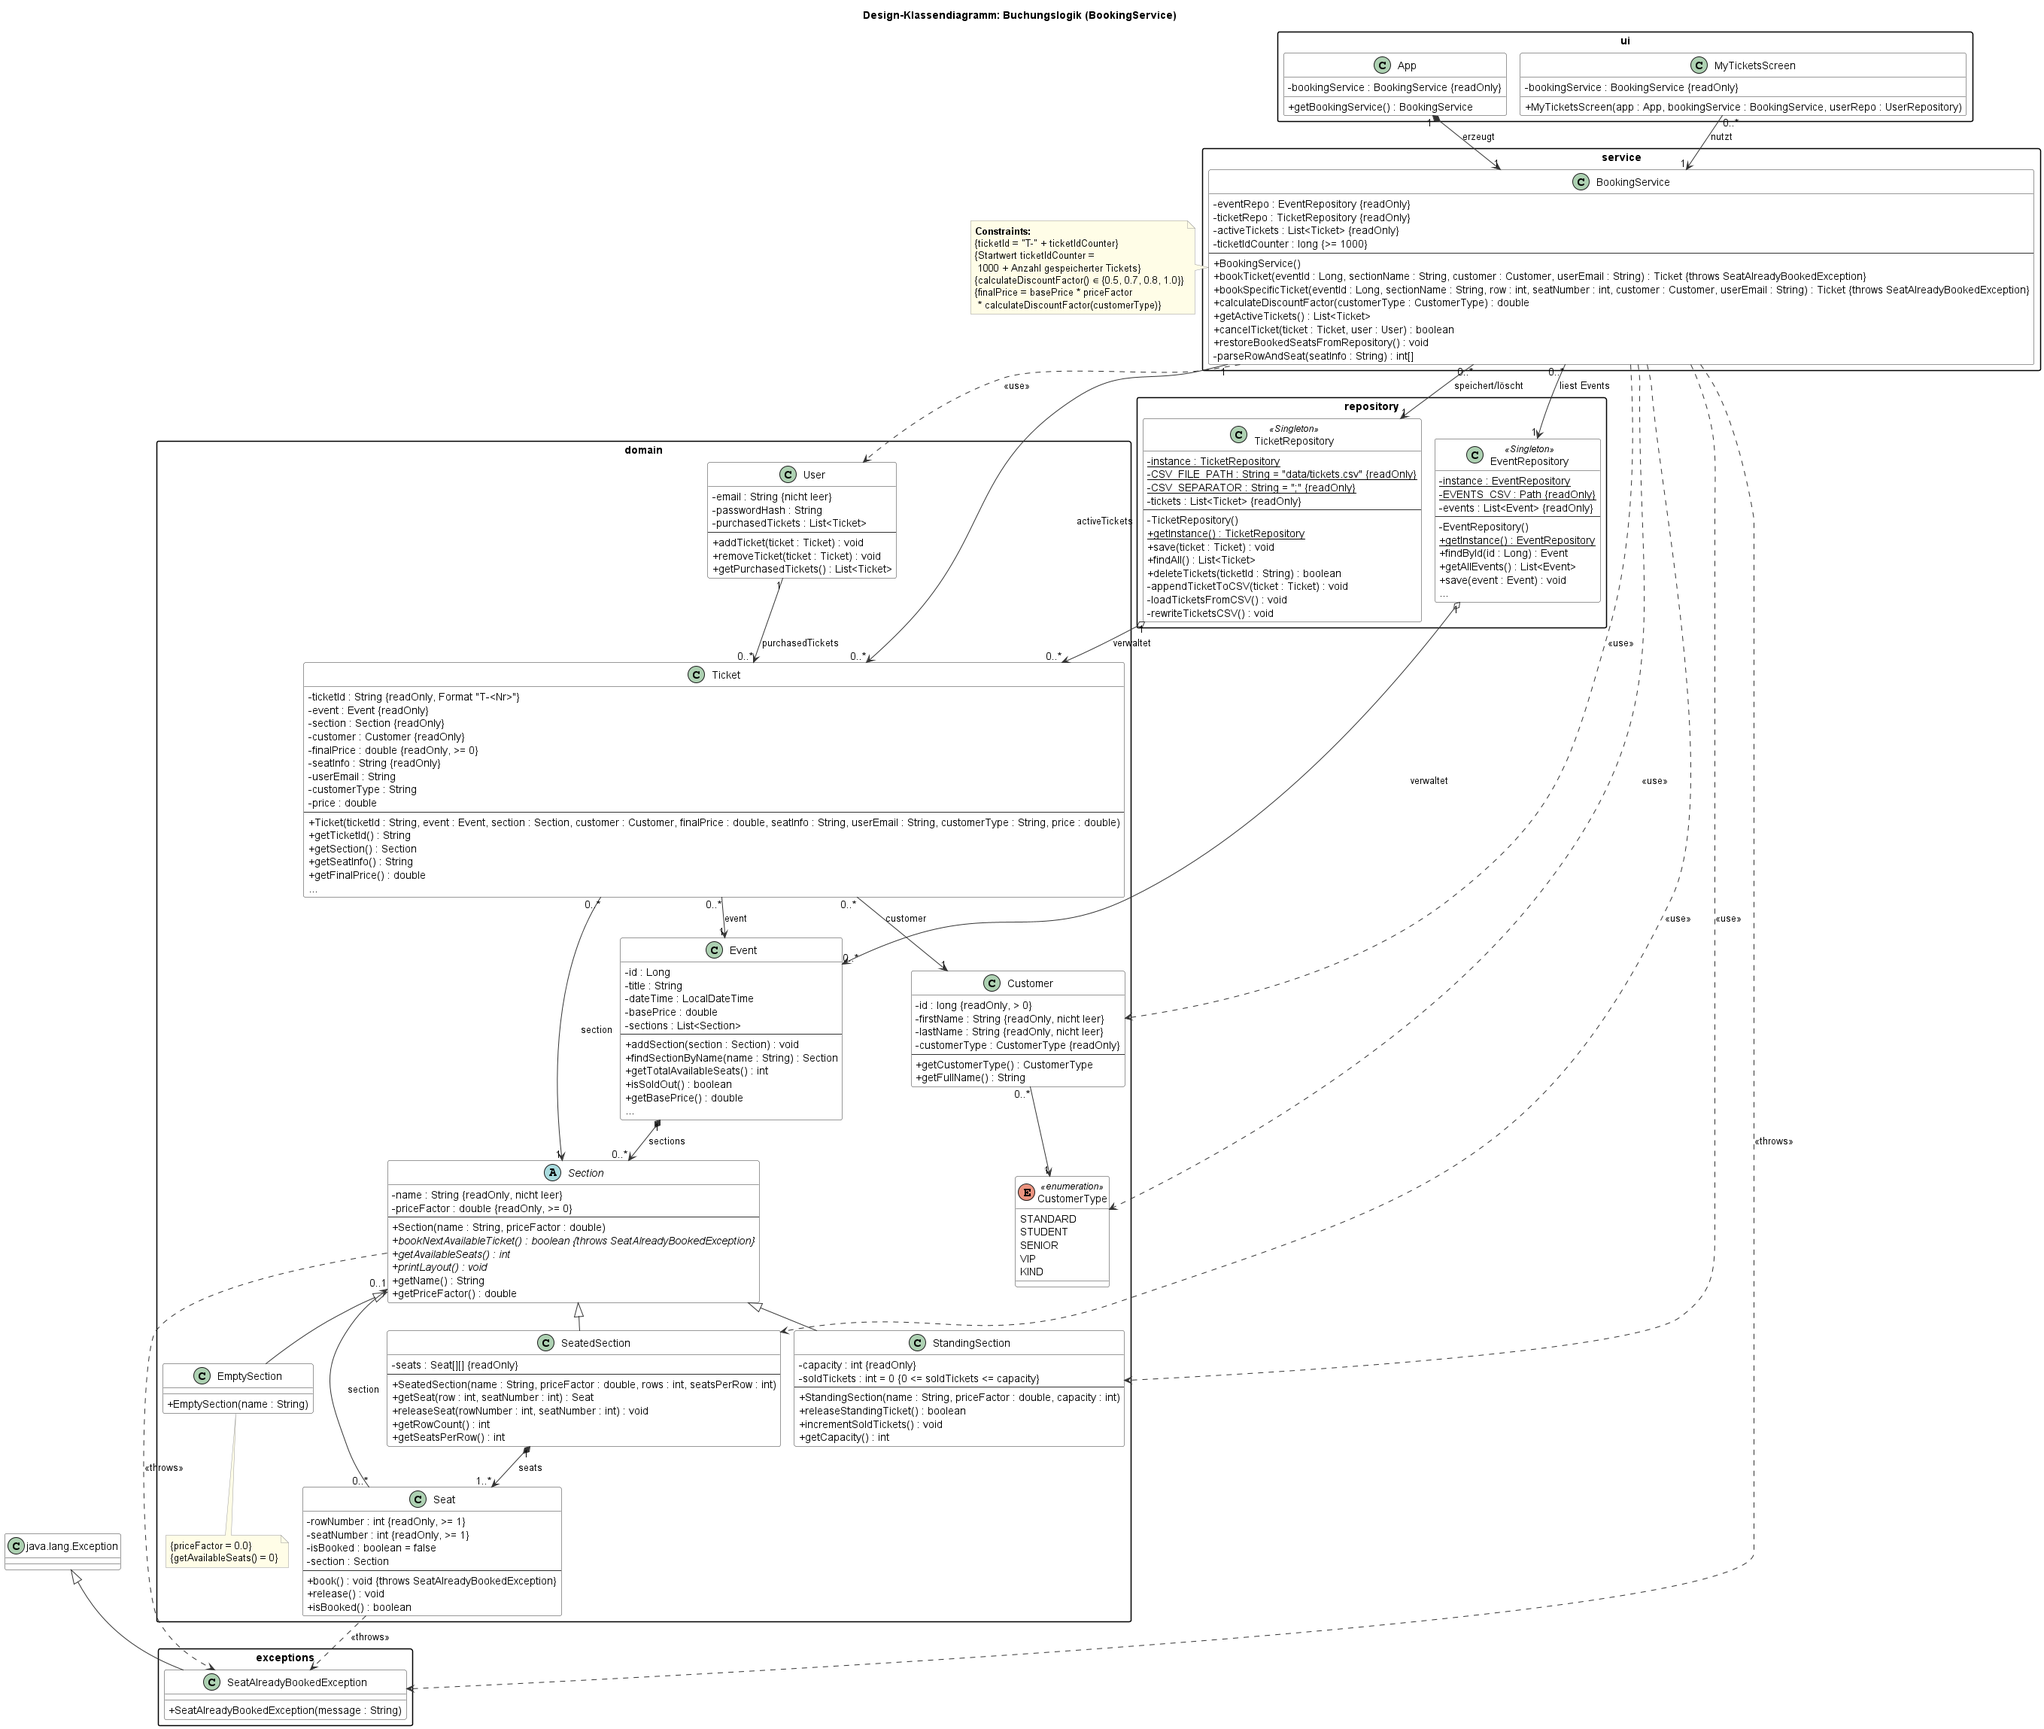
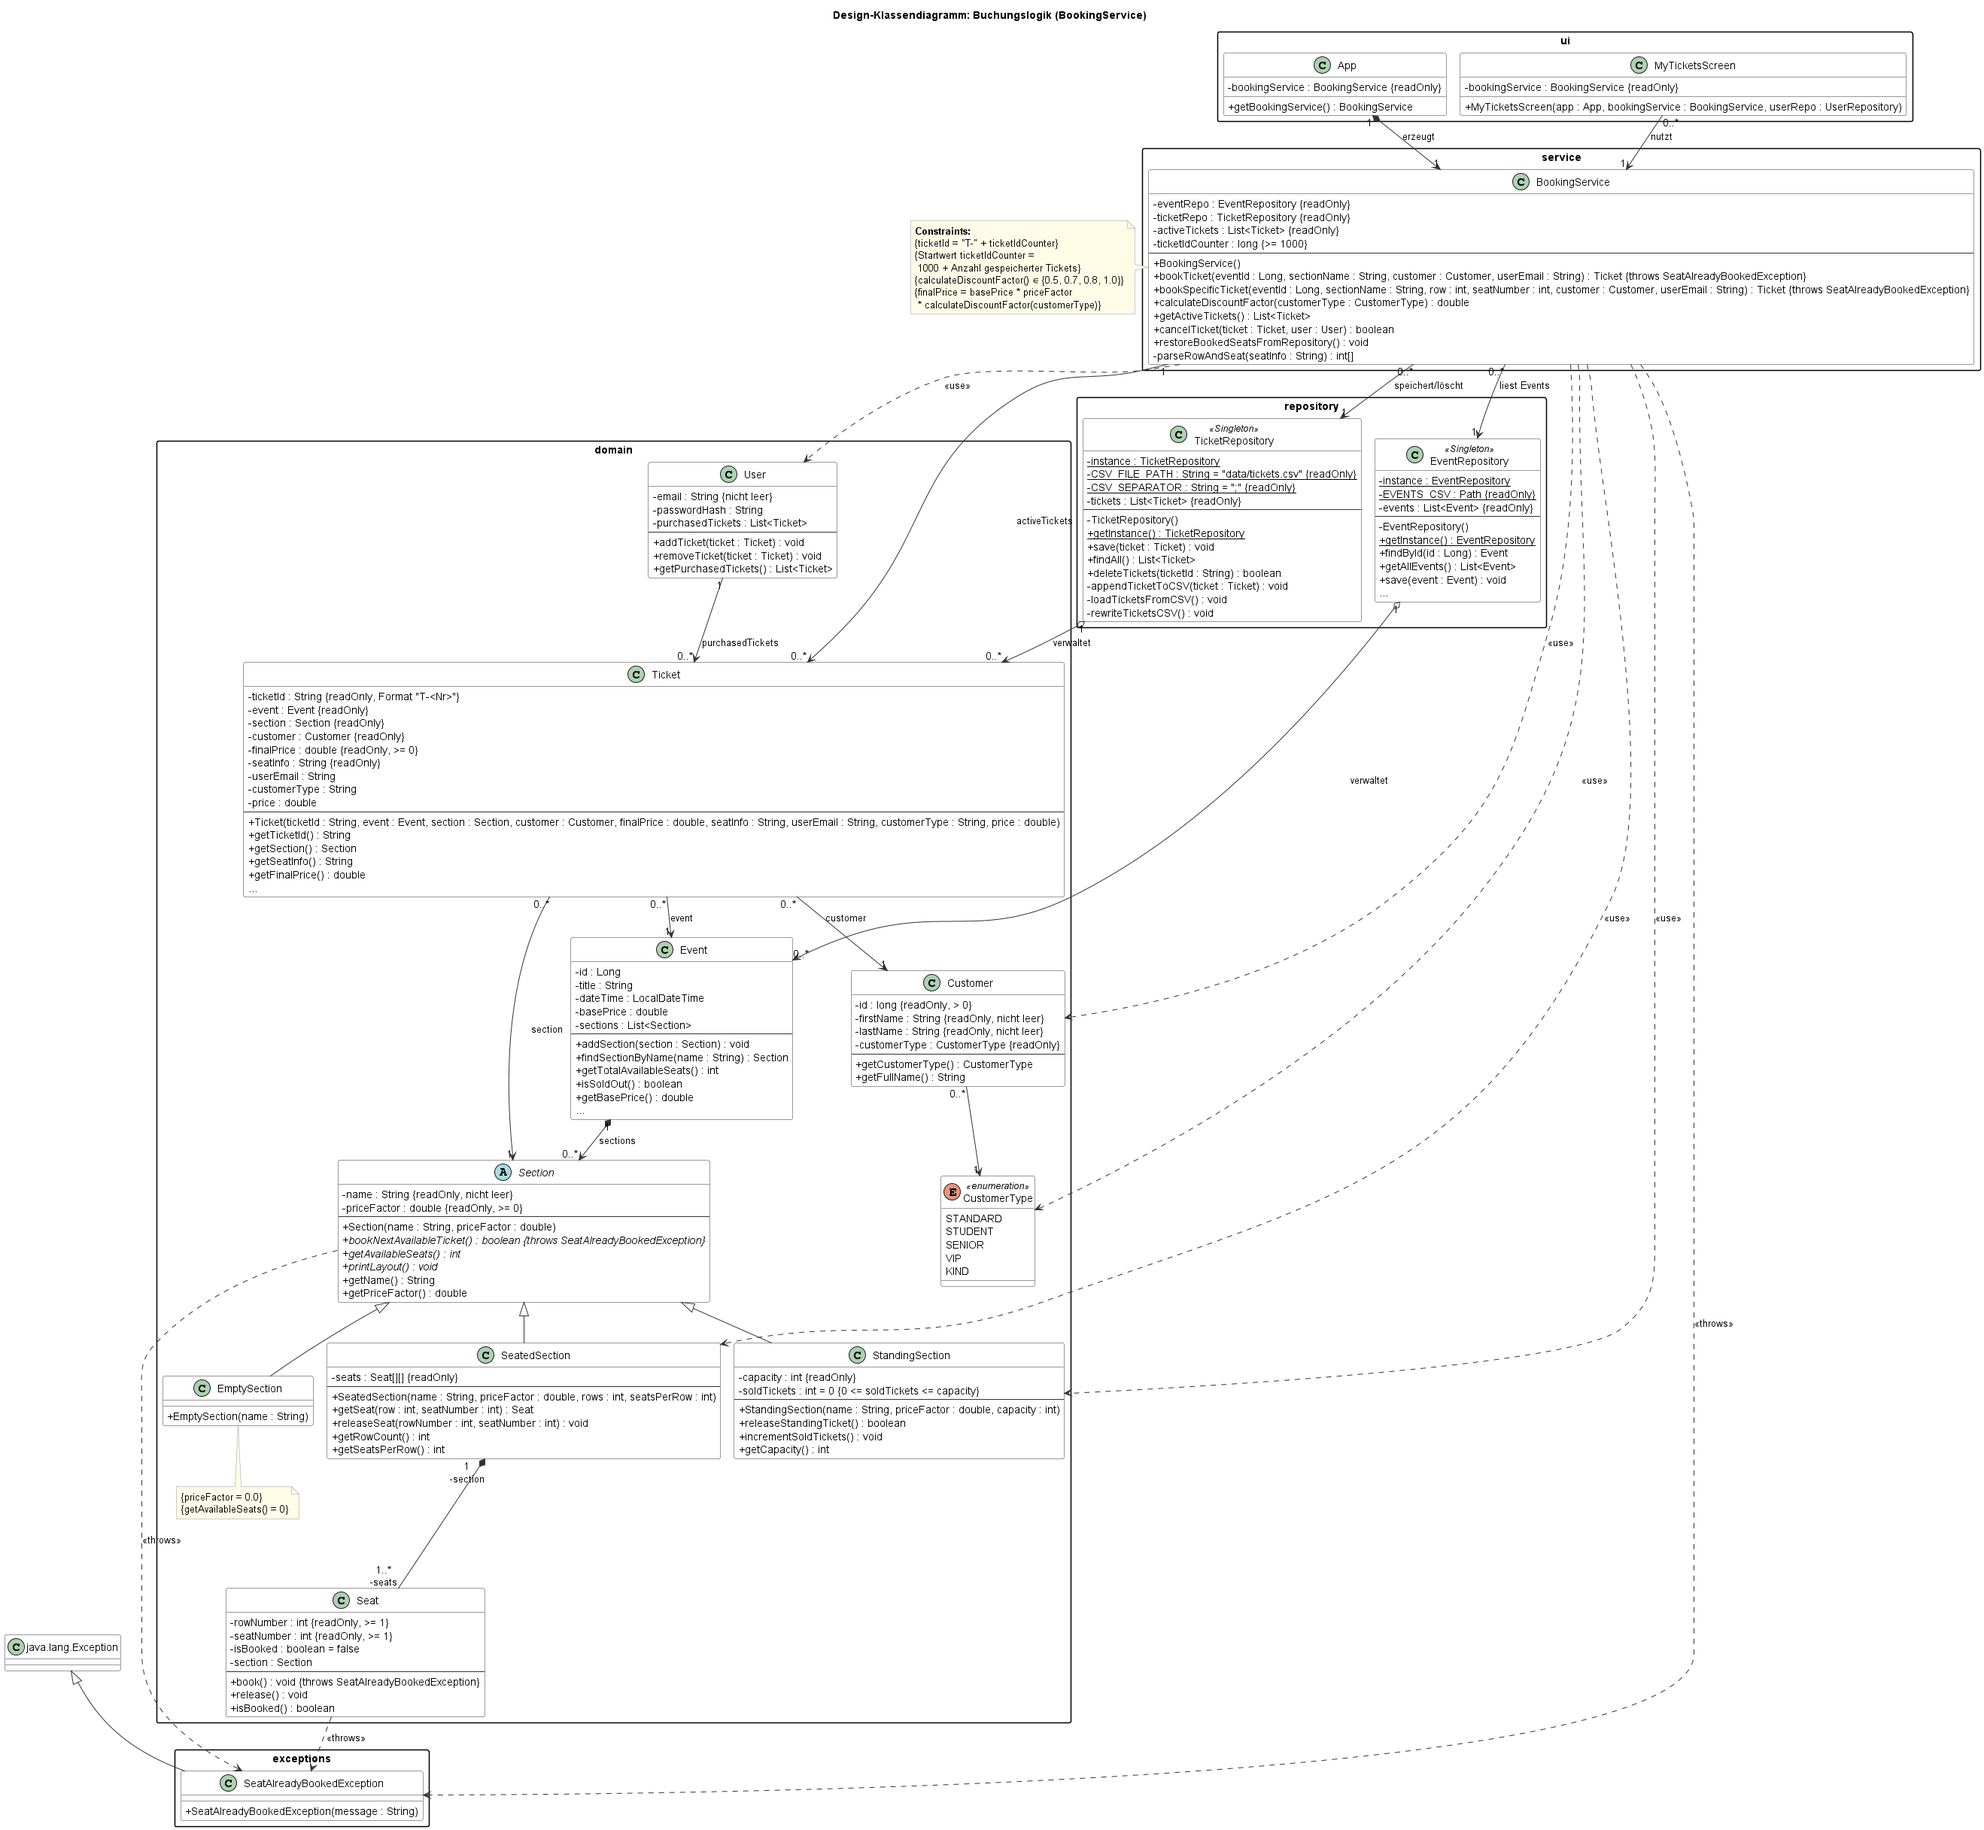
neue version

diff --git a/docs/Design-Klassendiagramme.md b/docs/Design-Klassendiagramme.md
@@ -78,8 +78,7 @@ Ausnahmen werden als Eigenschaft der Operation notiert: `bookTicket(..) : Ticket
 | `BookingService` ⇢ `SeatAlreadyBookedException` | **Abhängigkeit** `<<throws>>` | – | `throws`-Klausel |
 | `EventRepository` → `Event`, `TicketRepository` → `Ticket` | **Aggregation** (leere Raute) | 1 → 0..* | Repository verwaltet die Objekte, die aber auch außerhalb weiterverwendet werden (z. B. Tickets im `User`) |
 | `Event` → `Section` | **Komposition** | 1 → 0..* | Bereiche existieren nur innerhalb ihres Events; `getSections()` gibt nur eine Kopie heraus |
-| `SeatedSection` → `Seat` | **Komposition** | 1 → 1..* | Sitze werden im Konstruktor erzeugt (`new Seat(..., this)`) |
-| `Seat` → `Section` | gerichtete **Assoziation** (Rückreferenz) | 0..* → 0..1 | Attribut `section`; im 2-Parameter-Konstruktor nicht gesetzt, daher 0..1 |
+| `SeatedSection` ◆— `Seat` | **Komposition**, bidirektional (keine Pfeilspitze), Rollen `-seats` und `-section` | 1 — 1..* | Sitze werden im Konstruktor erzeugt (`new Seat(..., this)`); `SeatedSection` kennt die Sitze über `seats`, jeder `Seat` seinen Bereich über `section` |
 | `Section` ◁— `SeatedSection`, `StandingSection`, `EmptySection` | **Generalisierung** | – | `extends Section`; `bookNextAvailableTicket()` ist polymorph |
 | `Ticket` → `Event`, `Section`, `Customer` | gerichtete **Assoziation** | 0..* → 1 | `final`-Attribute im Ticket |
 | `User` → `Ticket` | gerichtete **Assoziation** | 1 → 0..* | Liste `purchasedTickets` |
@@ -101,7 +100,7 @@ Ausnahmen werden als Eigenschaft der Operation notiert: `bookTicket(..) : Ticket
 | **Klassen** | `Bereich`, `Sitzplatzbereich`, `Sitzplatz` (fachliche, deutsche Begriffe) | `Section` *(abstrakt)*, `SeatedSection`, `Seat` | `abstract class Section`, `class SeatedSection extends Section`, `class Seat` |
 | **Attribute** | `reihe`, `platznummer`, `istGebucht` (ohne Typ, ohne Sichtbarkeit) | `- rowNumber : int {readOnly, >= 1}`, `- isBooked : boolean = false` | `private final int rowNumber;` `private boolean isBooked;` |
 | **Operationen** | `buchen()`, `freigeben()` | `+ book() : void {throws SeatAlreadyBookedException}`, `+ release() : void` | `public void book() throws SeatAlreadyBookedException { ... }` |
-| **Beziehung** | Komposition `Sitzplatzbereich 1 ◆—— 1..* Sitzplatz`, **ungerichtet** | Komposition **gerichtet** `SeatedSection 1 ◆——> 1..* Seat` (Rolle `-seats`) **plus** Rückreferenz `Seat 0..* ——> 0..1 Section` (Rolle `-section`) | `private final Seat[][] seats;` in `SeatedSection`, `private Section section;` in `Seat` |
+| **Beziehung** | Komposition `Sitzplatzbereich 1 ◆—— 1..* Sitzplatz`, **ungerichtet** | **eine** Komposition `SeatedSection 1 ◆—— 1..* Seat`, **in beide Richtungen navigierbar**, mit den Rollen `-seats` (am Seat-Ende) und `-section` (am SeatedSection-Ende) | `private final Seat[][] seats;` in `SeatedSection`, `private Section section;` in `Seat` |
 | **Lebenszyklus** | „Ein Sitzplatz existiert nicht ohne seinen Bereich.“ | Komposition → das Ganze erzeugt die Teile | `new Seat(r + 1, s + 1, this)` im Konstruktor von `SeatedSection`; das Array ist `final` und wird nie nach außen ersetzt |
 | **Fehlerfall** | „Ein gebuchter Platz kann nicht noch einmal gebucht werden.“ (Anforderung) | Constraint + Ausnahme in der Signatur | `if (isBooked) throw new SeatAlreadyBookedException(...)` |
 
@@ -111,9 +110,9 @@ Ausnahmen werden als Eigenschaft der Operation notiert: `bookTicket(..) : Ticket
    - Fachbegriffe werden zu Bezeichnern im Code (`Sitzplatz` → `Seat`).
    - Attribute bekommen **Datentypen, Sichtbarkeit und Constraints** (`- rowNumber : int {readOnly, >= 1}`).
    - Operationen bekommen **Parameter, Rückgabetyp und Ausnahmen**.
-   - Die Beziehung bekommt eine **Navigierbarkeit** (Pfeil) und **Rollennamen**. Dabei wird entschieden, dass auch der Sitz seinen Bereich kennt (Rückreferenz `section`).
+   - Die Beziehung bekommt **Rollennamen** an beiden Enden, und es wird über die **Navigierbarkeit** entschieden: Beide Seiten kennen sich (`-seats` und `-section`), die Komposition ist also bidirektional.
    - Die Multiplizität `1..*` wird in der Anordnung *Reihen × Plätze* umgesetzt, als zweidimensionales Feld `Seat[][]`.
 2. **OOD → OOP**
-   - Die Rolle `-seats` mit Multiplizität `1..*` wird zum Attribut `private final Seat[][] seats`.
+   - Die Rolle `-seats` mit Multiplizität `1..*` wird zum Attribut `private final Seat[][] seats`, die Rolle `-section` zum Attribut `private Section section` (gesetzt über `this`).
    - `{readOnly}` wird zu `final`, die Komposition zur Objekterzeugung im Konstruktor des Ganzen.
    - `{throws ...}` wird zur `throws`-Klausel, der Constraint zur `if`-Prüfung.
